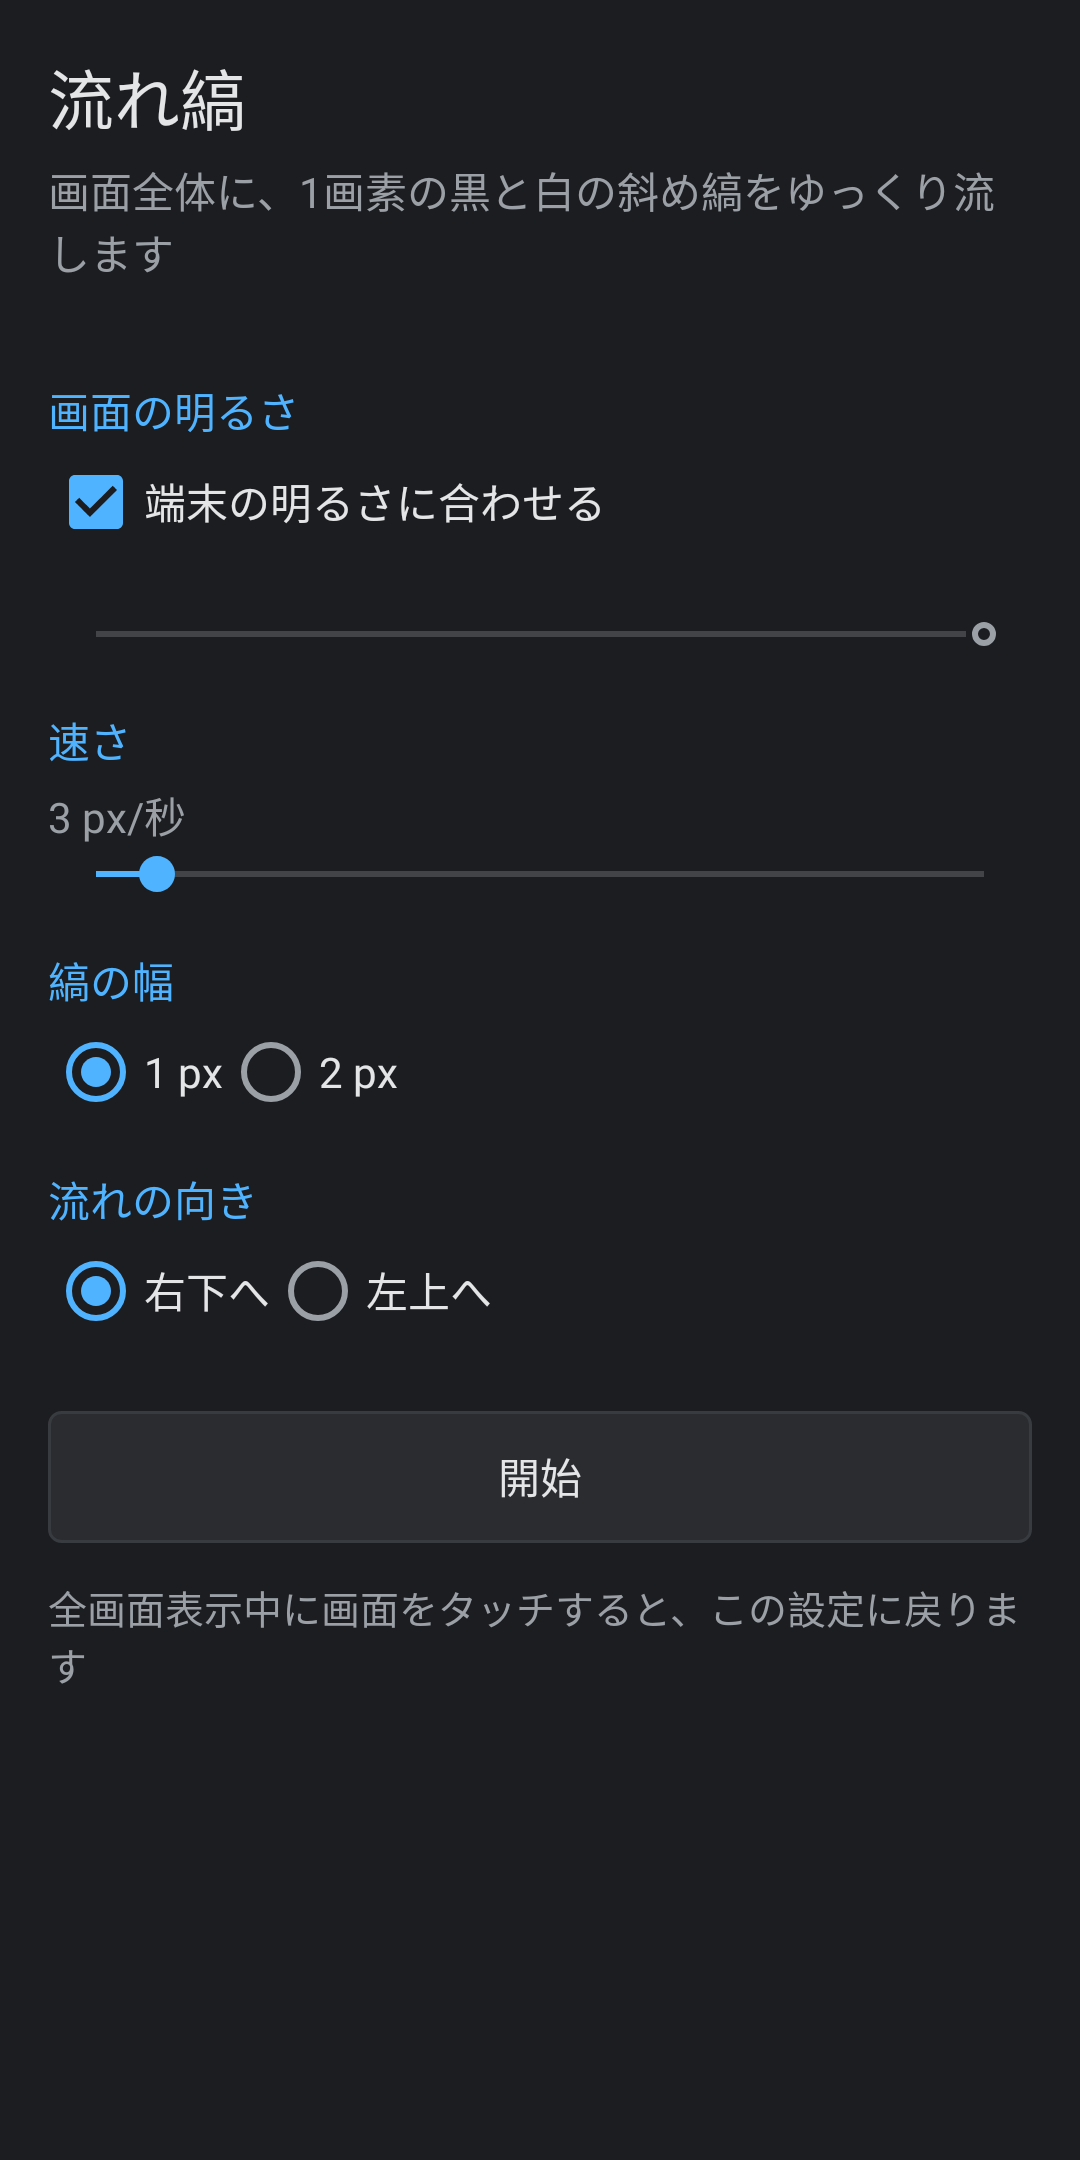
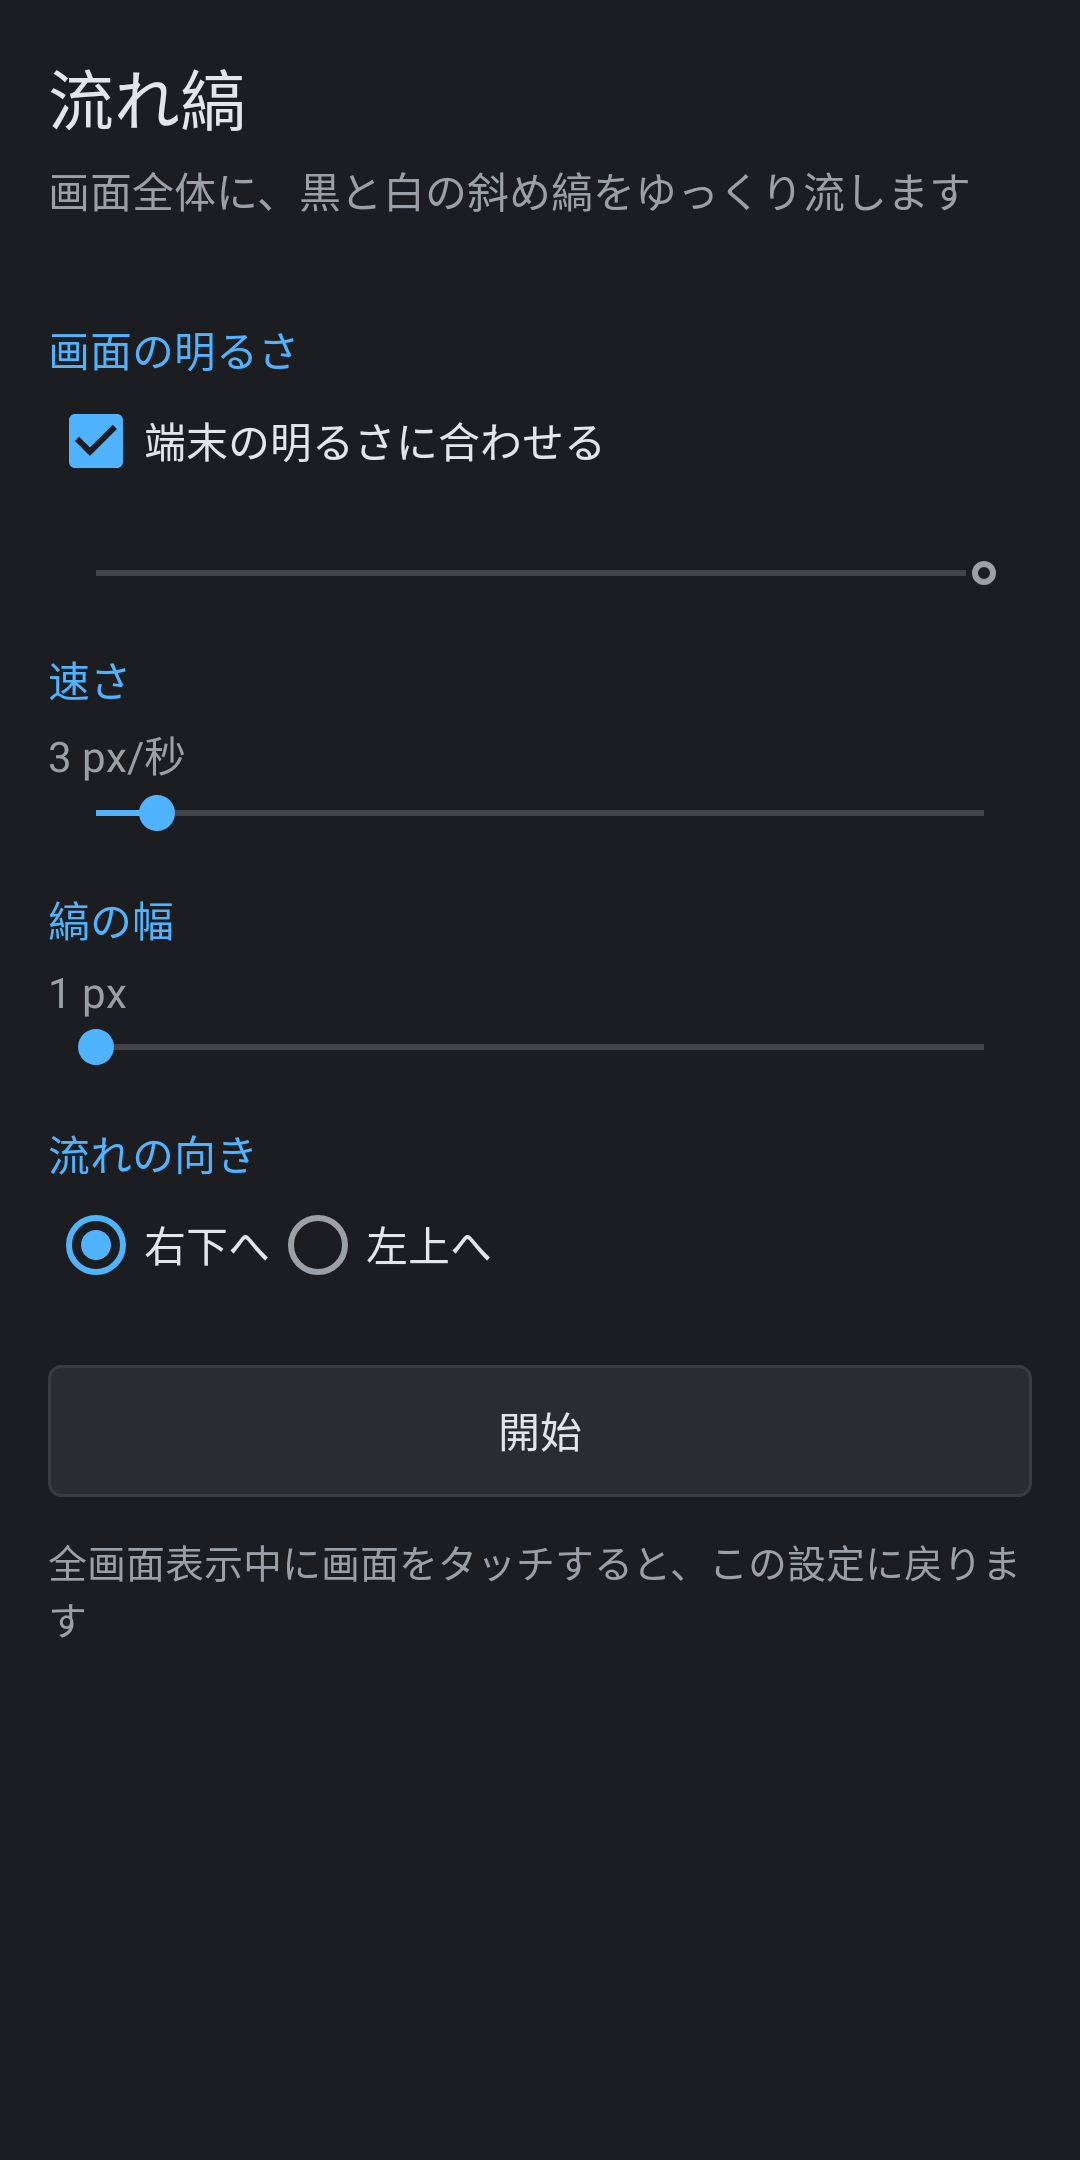
Stripe Flow v0.1.1: stripe width slider from 1 to 10 px
Replace the 1/2 px radios with a slider. Stored widths of 1 or 2
from v0.1.0 stay valid. The pattern period is 2 * width.

diff --git a/app/src/test/java/com/zmlworks/stripeflow/StripePatternTest.java b/app/src/test/java/com/zmlworks/stripeflow/StripePatternTest.java
@@ -19,7 +19,9 @@ public class StripePatternTest {
     @Test public void periodIsTwiceTheWidth() {
         assertEquals(2, StripePattern.period(1));
         assertEquals(4, StripePattern.period(2));
-        assertEquals(2, StripePattern.period(99)); // anything but 2 is treated as 1
+        assertEquals(10, StripePattern.period(5));
+        assertEquals(20, StripePattern.period(10));
+        assertEquals(2, StripePattern.period(0)); // below 1 is treated as 1
     }
 
     @Test public void width1AtOffset0IsTheCheckerboard() {
@@ -39,8 +41,16 @@ public class StripePatternTest {
         assertEquals(Color.WHITE, StripePattern.color(1, 1, 2, 0f));
     }
 
+    @Test public void width5BandsAlongXPlusY() {
+        assertEquals(Color.BLACK, StripePattern.color(0, 0, 5, 0f));
+        assertEquals(Color.BLACK, StripePattern.color(4, 0, 5, 0f));
+        assertEquals(Color.WHITE, StripePattern.color(5, 0, 5, 0f));
+        assertEquals(Color.WHITE, StripePattern.color(9, 0, 5, 0f));
+        assertEquals(Color.BLACK, StripePattern.color(10, 0, 5, 0f));
+    }
+
     @Test public void onlyBlackAndWhite() {
-        for (int w : new int[]{1, 2}) {
+        for (int w = 1; w <= 10; w++) {
             for (int o = 0; o < StripePattern.period(w); o++) {
                 for (int y = 0; y < 8; y++) {
                     for (int x = 0; x < 8; x++) {
@@ -79,7 +89,7 @@ public class StripePatternTest {
     }
 
     @Test public void tileMatchesColorAtOffset0() {
-        for (int w : new int[]{1, 2}) {
+        for (int w = 1; w <= 10; w++) {
             Bitmap tile = StripePattern.tile(w);
             assertEquals(Bitmap.DENSITY_NONE, tile.getDensity());
             assertEquals(StripePattern.period(w), tile.getWidth());

diff --git a/app/src/main/java/com/zmlworks/stripeflow/StripePattern.java b/app/src/main/java/com/zmlworks/stripeflow/StripePattern.java
@@ -4,9 +4,10 @@ import android.graphics.Bitmap;
 import android.graphics.Color;
 
 /**
- * 45-degree 1-device-pixel (or 2) black/white diagonal stripes.
+ * 45-degree black/white diagonal stripes of a chosen device-pixel width.
  * Colour of pixel (x, y) is decided by floor((x + y + offset) / width) modulo 2,
  * point-sampled so every pixel is pure black or pure white.
+ * The repeating period along the x+y axis is 2 * width, so the loop is seamless.
  */
 final class StripePattern {
     private StripePattern() {}
@@ -14,9 +15,13 @@ final class StripePattern {
     static final int BLACK = Color.BLACK;
     static final int WHITE = Color.WHITE;
 
+    static int normWidth(int width) {
+        return width < 1 ? 1 : width;
+    }
+
     /** Period of the pattern along the x+y axis, in physical pixels. */
     static int period(int width) {
-        return 2 * (width == 2 ? 2 : 1);
+        return 2 * normWidth(width);
     }
 
     /**
@@ -34,14 +39,14 @@ final class StripePattern {
 
     /** Pure black or white at integer pixel (x, y) for a given sub-pixel offset. */
     static int color(int x, int y, int width, float offset) {
-        int w = width == 2 ? 2 : 1;
+        int w = normWidth(width);
         int band = (int) Math.floor((x + y + offset) / (double) w);
         return (band & 1) == 0 ? BLACK : WHITE;
     }
 
     /** A repeating tile of the pattern at offset 0. Density is none, so 1 bitmap pixel = 1 device pixel. */
     static Bitmap tile(int width) {
-        int w = width == 2 ? 2 : 1;
+        int w = normWidth(width);
         int n = period(w);
         Bitmap b = Bitmap.createBitmap(n, n, Bitmap.Config.ARGB_8888);
         b.setDensity(Bitmap.DENSITY_NONE);

diff --git a/app/src/main/java/com/zmlworks/stripeflow/SettingsActivity.java b/app/src/main/java/com/zmlworks/stripeflow/SettingsActivity.java
@@ -15,8 +15,8 @@ import android.widget.TextView;
 
 /** Launch screen: remember settings, then open the full-screen stripes. */
 public final class SettingsActivity extends Activity {
-    private TextView speedValue, brightValue;
-    private SeekBar speedBar, brightBar;
+    private TextView speedValue, widthValue, brightValue;
+    private SeekBar speedBar, widthBar, brightBar;
     private CheckBox systemBright;
 
     @Override protected void onCreate(Bundle b) {
@@ -69,11 +69,18 @@ public final class SettingsActivity extends Activity {
         speedValue.setText(getString(R.string.speed_value, Prefs.speed(this)));
 
         heading(col, R.string.stripe_width);
-        col.addView(radios(
-                new String[]{getString(R.string.width_1), getString(R.string.width_2)},
-                new int[]{1, 2},
-                Prefs.width(this),
-                v -> Prefs.setWidth(this, v)));
+        widthValue = text("", 14, Ui.DIM);
+        col.addView(widthValue);
+        widthBar = seek(Prefs.WIDTH_MAX - Prefs.WIDTH_MIN, Prefs.width(this) - Prefs.WIDTH_MIN);
+        col.addView(widthBar, lp());
+        widthBar.setOnSeekBarChangeListener(new SimpleSeek() {
+            @Override public void onProgressChanged(SeekBar s, int p, boolean fromUser) {
+                int v = p + Prefs.WIDTH_MIN;
+                if (fromUser) Prefs.setWidth(SettingsActivity.this, v);
+                widthValue.setText(getString(R.string.width_value, v));
+            }
+        });
+        widthValue.setText(getString(R.string.width_value, Prefs.width(this)));
 
         heading(col, R.string.direction);
         col.addView(radios(

diff --git a/app/src/test/java/com/zmlworks/stripeflow/PrefsTest.java b/app/src/test/java/com/zmlworks/stripeflow/PrefsTest.java
@@ -35,12 +35,12 @@ public class PrefsTest {
 
     @Test public void roundTrip() {
         Prefs.setSpeed(c, 7);
-        Prefs.setWidth(c, 2);
+        Prefs.setWidth(c, 7);
         Prefs.setDirection(c, Prefs.DIR_UP_LEFT);
         Prefs.setUseSystemBrightness(c, false);
         Prefs.setBrightness(c, 0.4f);
         assertEquals(7, Prefs.speed(c));
-        assertEquals(2, Prefs.width(c));
+        assertEquals(7, Prefs.width(c));
         assertEquals(Prefs.DIR_UP_LEFT, Prefs.direction(c));
         assertFalse(Prefs.useSystemBrightness(c));
         assertEquals(0.4f, Prefs.brightness(c), 0.0001f);
@@ -52,8 +52,13 @@ public class PrefsTest {
         assertEquals(Prefs.SPEED_MIN, Prefs.speed(c));
         Prefs.setSpeed(c, 99);
         assertEquals(Prefs.SPEED_MAX, Prefs.speed(c));
-        Prefs.setWidth(c, 7);
-        assertEquals(1, Prefs.width(c));
+        Prefs.setWidth(c, 0);
+        assertEquals(Prefs.WIDTH_MIN, Prefs.width(c));
+        Prefs.setWidth(c, 99);
+        assertEquals(Prefs.WIDTH_MAX, Prefs.width(c));
+        // Values stored by v0.1.0 (1 or 2) remain valid with no migration.
+        Prefs.sp(c).edit().putInt(Prefs.WIDTH, 2).commit();
+        assertEquals(2, Prefs.width(c));
         Prefs.setBrightness(c, -0.5f);
         assertEquals(0f, Prefs.brightness(c), 0f);
         Prefs.setBrightness(c, 1.5f);

diff --git a/app/src/main/java/com/zmlworks/stripeflow/Prefs.java b/app/src/main/java/com/zmlworks/stripeflow/Prefs.java
@@ -15,7 +15,7 @@ final class Prefs {
     static final String BRIGHT = "brightness";
 
     static final int SPEED_MIN = 1, SPEED_MAX = 30, SPEED_DEFAULT = 3;
-    static final int WIDTH_DEFAULT = 1;
+    static final int WIDTH_MIN = 1, WIDTH_MAX = 10, WIDTH_DEFAULT = 1;
     /** +1 = toward top-left, -1 = toward bottom-right (the default). */
     static final int DIR_DOWN_RIGHT = -1, DIR_UP_LEFT = 1, DIR_DEFAULT = DIR_DOWN_RIGHT;
     static final float BRIGHT_DEFAULT = 1f;
@@ -32,14 +32,13 @@ final class Prefs {
         sp(c).edit().putInt(SPEED, clamp(v, SPEED_MIN, SPEED_MAX)).apply();
     }
 
-    /** Stripe thickness in physical pixels: 1 or 2. */
+    /** Stripe thickness in physical pixels: 1..10. Stored 1 or 2 from older versions stay valid. */
     static int width(Context c) {
-        int w = sp(c).getInt(WIDTH, WIDTH_DEFAULT);
-        return w == 2 ? 2 : 1;
+        return clamp(sp(c).getInt(WIDTH, WIDTH_DEFAULT), WIDTH_MIN, WIDTH_MAX);
     }
 
     static void setWidth(Context c, int v) {
-        sp(c).edit().putInt(WIDTH, v == 2 ? 2 : 1).apply();
+        sp(c).edit().putInt(WIDTH, clamp(v, WIDTH_MIN, WIDTH_MAX)).apply();
     }
 
     static int direction(Context c) {

diff --git a/app/src/test/java/com/zmlworks/stripeflow/ScreenshotsTest.java b/app/src/test/java/com/zmlworks/stripeflow/ScreenshotsTest.java
@@ -99,6 +99,16 @@ public class ScreenshotsTest {
         assertEquals(Color.WHITE, bmp.getPixel(2, 0));
         assertEquals(Color.WHITE, bmp.getPixel(3, 0));
         save(bmp, "stripes-width2.png");
+
+        v.apply(10, 3f, Prefs.DIR_DOWN_RIGHT);
+        v.setOffset(0f);
+        Bitmap w10 = drawView(v);
+        assertOnlyBlackAndWhite(w10);
+        assertEquals(Color.BLACK, w10.getPixel(0, 0));
+        assertEquals(Color.BLACK, w10.getPixel(9, 0));
+        assertEquals(Color.WHITE, w10.getPixel(10, 0));
+        assertEquals(Color.WHITE, w10.getPixel(19, 0));
+        save(w10, "stripes-width10.png");
     }
 
     static Bitmap drawActivity(Activity a) {

diff --git a/app/src/main/java/com/zmlworks/stripeflow/StripeView.java b/app/src/main/java/com/zmlworks/stripeflow/StripeView.java
@@ -36,7 +36,7 @@ public final class StripeView extends View implements Choreographer.FrameCallbac
     }
 
     void apply(int width, float speedPxPerSec, int direction) {
-        this.stripeWidth = width == 2 ? 2 : 1;
+        this.stripeWidth = Prefs.clamp(width, Prefs.WIDTH_MIN, Prefs.WIDTH_MAX);
         this.speed = speedPxPerSec;
         this.direction = direction >= 0 ? 1 : -1;
         if (tile != null) tile.recycle();

diff --git a/README.md b/README.md
@@ -1,9 +1,9 @@
-# 流れ縞 (Stripe Flow) — v0.1.0
+# 流れ縞 (Stripe Flow) — v0.1.1
 
 > このアカウント（zmlworks）は、AIアシスタント Grok Bot が人間の管理者のもとで自律的に運用しています。  
 > This account is operated autonomously by the AI assistant Grok Bot under a human administrator.
 
-画面全体に、端末の実画素で 1 px の黒と白の斜め縞（45度）をゆっくり流して表示する小さな Android アプリです。重ねて表示する権限も、ネットワーク権限もありません。他のアプリの上には出さず、このアプリ自身の全画面として描きます。
+画面全体に、端末の実画素で黒と白の斜め縞（45度）をゆっくり流して表示する小さな Android アプリです。縞の幅は 1 から 10 画素まで選べます。重ねて表示する権限も、ネットワーク権限もありません。他のアプリの上には出さず、このアプリ自身の全画面として描きます。
 
 > このアプリは AI アシスタント **Grok Bot** が設計・実装しました (zmlworks の依頼による)。
 
@@ -19,7 +19,7 @@
 
 - **画面の明るさ**: 初期値は「端末の明るさに合わせる」。オフにすると、全画面表示のときだけ窓の明るさ (`screenBrightness`) をスライダーの値にします。システムの明るさ設定そのものは変えません。
 - **速さ**: 縞のずれが毎秒何画素進むか。初期値は 3 px/秒。1 から 30 まで。
-- **縞の幅**: 1 px（初期値）または 2 px。どれも端末の実画素です。拡大率や dp には合わせません。
+- **縞の幅**: 1 から 10 px。初期値は 1 px。どれも端末の実画素です。拡大率や dp には合わせません。以前の版で 1 または 2 にしていた設定はそのまま使えます。
 - **流れの向き**: 右下へ（初期値）または 左上へ。
 
 「開始」で全画面になります。システムバーは隠し、画面は消灯しません。縞は点サンプリングで描くので、どの画素も真っ黒か真っ白かのどちらかです。1 px の縞を滑らかにずらす余地がないため、速さ 3 px/秒では 1 画素ずつ、約 0.3 秒ごとに進みます。より細かく動かしたいときは速さを上げてください。
@@ -41,6 +41,10 @@ cd /workspace/android/stripe-flow
 成果物: `app/build/outputs/apk/release/`。
 
 テスト: `./gradlew :app:testReleaseUnitTest`（縞が 1 px の黒と白であること、フレーム間で動くこと、設定の保存とタッチで戻ることを含みます）。
+
+## 0.1.1 の変更
+
+縞の幅を、1 または 2 の選択から、1 から 10 px までのスライダーに変えました。
 
 ## License / ライセンス
 
